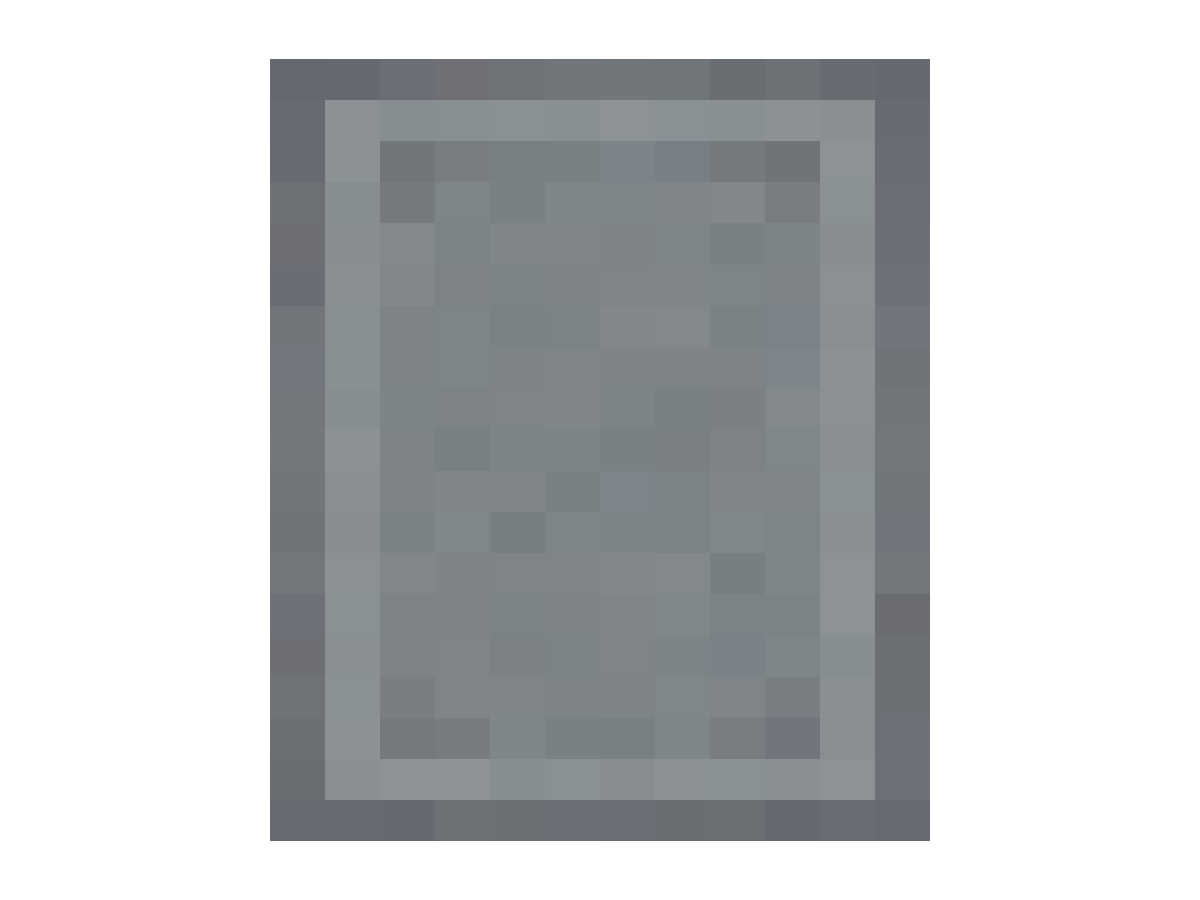
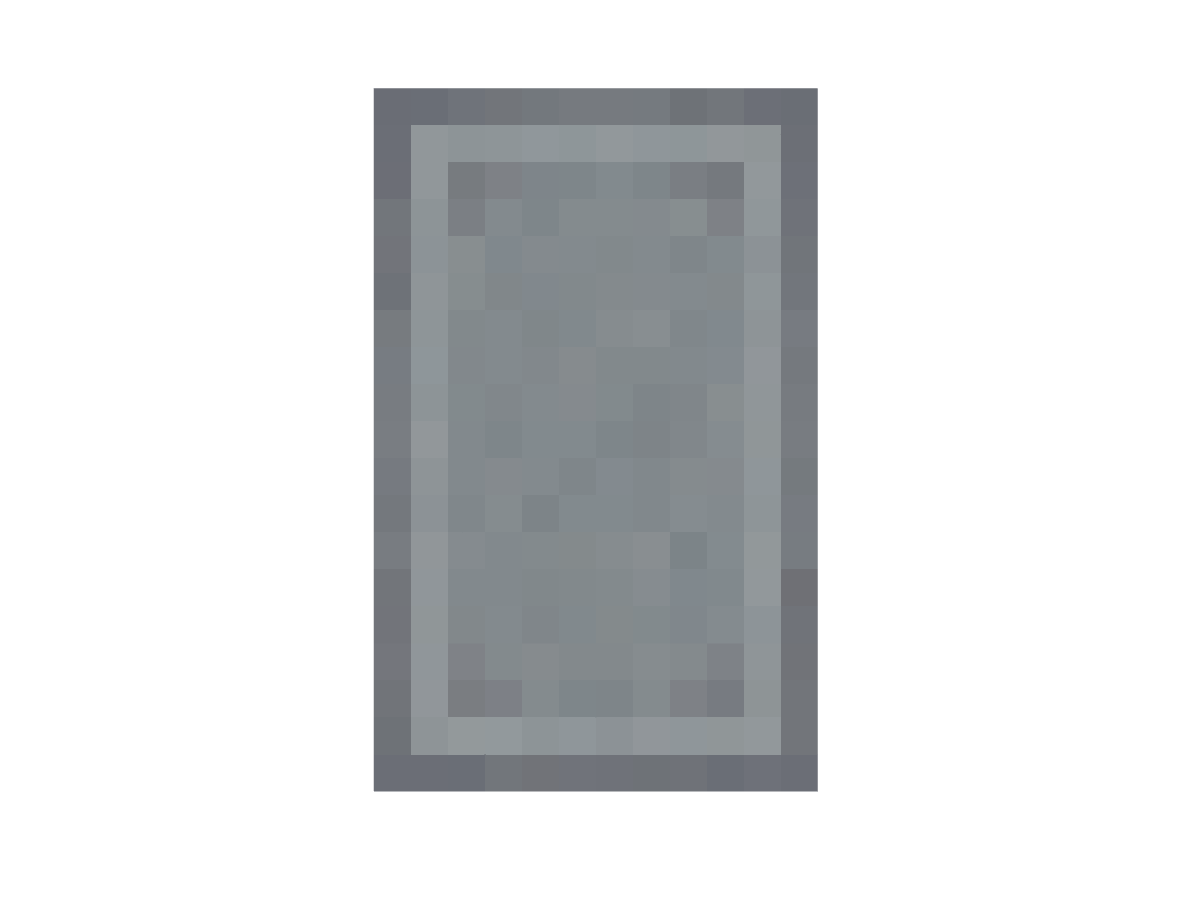
美术：接线盒候选C 更新为作者 Blockbench 预览图

Changed region(s): [[0.2158, 0.0622, 0.8017, 0.9333], [0.6167, 0.5911, 0.6475, 0.6844]]

diff --git a/art/models/junction_box_r2_20261126/README.md b/art/models/junction_box_r2_20261126/README.md
@@ -24,7 +24,6 @@
 - 待完成验收：作者在 Blockbench 重开确认、原生导出同名 Java 模型 JSON、预览复核——当前状态见 `validation.json` 的 `unresolved`。
 - 未接入 `src/main/resources`，未进入游戏。
 
-## 预览（本次由自建渲染器生成）
+## 预览
 
-- 作者本次未提供视口截图。四张预览由**交付时的离线渲染器**直接由本 `junction_box.bbmodel` 渲染：1200×900、纯黑底、无网格无 UI；正/背/侧正交、斜视透视（自动取景）；门板侧映射为 `preview_front`（与候选 B 目录命名一致）。
-- **该渲染器未随资产入库**：属交付者的本地一次性工具，仓库内不可重跑；渲染与工程几何、内嵌贴图严格同源，光照为平面着色（与 Blockbench 视口风格略有差异）。作者可在 Blockbench 中复核并替换为原生截图。
+- 四张预览为**作者提供的 Blockbench 视口截图**（正/背/侧正交 + 斜视透视；"正面"为开门侧）。
